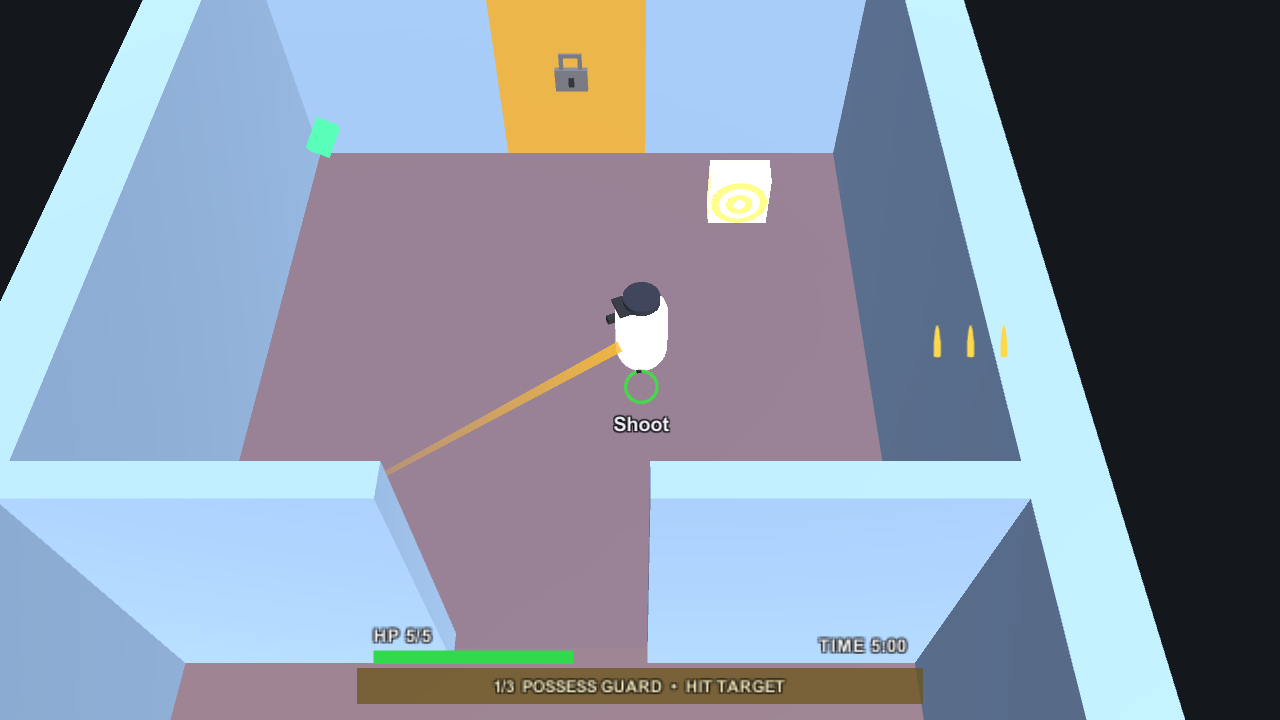
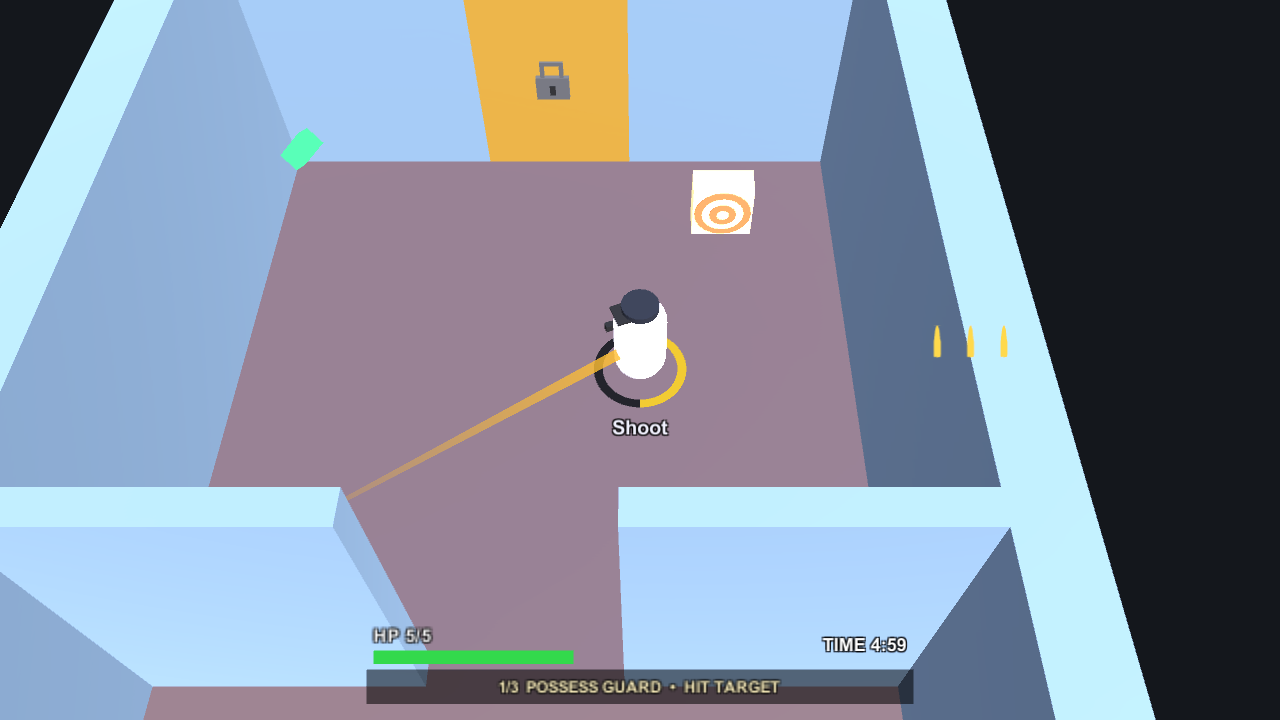
fix: anchor possession countdown to the ground around the host
Match the supplied reference with a flat world-space ring around the possessed feet. Preserve countdown progress and tutorial references, bind the gameplay camera for spotlights, and position the ring on the supporting floor. Update placement checks and native previews.

Changed region(s): [[0.0, 0.0, 0.9375, 1.0]]

diff --git a/Assets/Scripts/UI/PossessionCues.cs b/Assets/Scripts/UI/PossessionCues.cs
@@ -1,5 +1,6 @@
 using UnityEngine;
 using UnityEngine.UI;
+using UnityEngine.SceneManagement;
 
 namespace Possession
 {
@@ -15,7 +16,6 @@ namespace Possession
 
         [Header("Timer below the body")]
         [SerializeField] private RectTransform timerGroup; // HUDManager drives the circular countdown
-        [SerializeField] private float timerDrop = 40f;
 
         [Header("Ability hint")]
         [SerializeField] private Text hintText;
@@ -41,6 +41,8 @@ namespace Possession
         private GameObject hiddenLabel;
         private CanvasGroup timerVisibility;
         private Material aimMaterial;
+        private Canvas groundCanvas;
+        private readonly Vector3[] timerCorners = new Vector3[4];
 
         private void Awake()
         {
@@ -50,6 +52,19 @@ namespace Possession
             {
                 timerVisibility = timerGroup.GetComponent<CanvasGroup>();
                 if (timerVisibility == null) timerVisibility = timerGroup.gameObject.AddComponent<CanvasGroup>();
+                var ground = new GameObject("Possession Ground Ring", typeof(RectTransform), typeof(Canvas));
+                SceneManager.MoveGameObjectToScene(ground, gameObject.scene);
+                ground.layer = 2;
+                groundCanvas = ground.GetComponent<Canvas>();
+                groundCanvas.renderMode = RenderMode.WorldSpace;
+                groundCanvas.worldCamera = Camera.main;
+                groundCanvas.GetComponent<RectTransform>().sizeDelta = new Vector2(52f, 52f);
+                ground.transform.rotation = Quaternion.Euler(90f, 0f, 0f);
+                ground.transform.localScale = Vector3.one * 0.035f;
+                timerGroup.SetParent(ground.transform, false);
+                timerGroup.anchorMin = timerGroup.anchorMax = new Vector2(0.5f, 0.5f);
+                timerGroup.anchoredPosition3D = Vector3.zero;
+                timerGroup.localRotation = Quaternion.identity;
             }
         }
 
@@ -83,6 +98,7 @@ namespace Possession
         {
             if (aimLine != null) Destroy(aimLine.gameObject);
             if (aimMaterial != null) Destroy(aimMaterial);
+            if (groundCanvas != null) Destroy(groundCanvas.gameObject);
         }
 
         private void Start()
@@ -162,6 +178,7 @@ namespace Possession
             }
             if (cam == null) cam = Camera.main;
             if (cam == null) return;
+            if (groundCanvas != null) groundCanvas.worldCamera = cam;
 
             Vector3 feet = possessed.transform.position;
             if (bodyRenderer != null) feet.y = bodyRenderer.bounds.min.y;
@@ -170,17 +187,31 @@ namespace Possession
                 && viewport.y >= 0f && viewport.y <= 1f;
             if (timerVisibility != null) timerVisibility.alpha = visible ? 1f : 0f;
 
-            // Keep the circle upright and equally readable for Guard and Heavy.
-            if (timerGroup != null)
-                PlaceAt(timerGroup, feet, -timerDrop);
+            // The countdown lies on the floor around the host's feet, like the reference.
+            if (groundCanvas != null)
+            {
+                float floor = float.NegativeInfinity;
+                foreach (var hit in Physics.RaycastAll(feet + Vector3.up * 0.5f, Vector3.down, 3f,
+                    1 << 0, QueryTriggerInteraction.Ignore))
+                    if (hit.normal.y > 0.5f && hit.point.y <= feet.y + 0.1f)
+                    floor = Mathf.Max(floor, hit.point.y);
+                if (float.IsNegativeInfinity(floor)) floor = feet.y;
+                groundCanvas.transform.position = new Vector3(feet.x, floor + 0.04f, feet.z);
+            }
 
             if (hintText != null && hintText.gameObject.activeSelf)
             {
                 hintTimer -= Time.unscaledDeltaTime;
                 float drop = hintDrop;
                 if (timerGroup != null)
-                    drop = Mathf.Max(drop, timerDrop + timerGroup.rect.height * Mathf.Abs(timerGroup.localScale.y) * 0.5f
-                        + hintText.rectTransform.rect.height * Mathf.Abs(hintText.rectTransform.localScale.y) * 0.5f + 8f);
+                {
+                    timerGroup.GetWorldCorners(timerCorners);
+                    float bottom = float.PositiveInfinity;
+                    foreach (var corner in timerCorners) bottom = Mathf.Min(bottom, cam.WorldToScreenPoint(corner).y);
+                    float scale = canvas != null ? canvas.scaleFactor : 1f;
+                    drop = Mathf.Max(drop, (cam.WorldToScreenPoint(feet).y - bottom) / scale
+                        + hintText.rectTransform.rect.height * 0.5f + 8f);
+                }
                 PlaceAt(hintText.rectTransform, feet, -drop);
                 var c = hintText.color;
                 c.a = visible ? Mathf.Clamp01(hintTimer / hintFadeTime) : 0f;

diff --git a/Assets/Tests/PlayMode/PossessionTimerTests.cs b/Assets/Tests/PlayMode/PossessionTimerTests.cs
@@ -206,7 +206,7 @@ namespace Possession.Tests
         [UnityTest]
         public IEnumerator CameraCanvasAlsoKeepsCircleBelowVisibleBody()
         {
-            Canvas canvas = group.GetComponentInParent<Canvas>();
+            Canvas canvas = hud.GetComponent<Canvas>();
             canvas.renderMode = RenderMode.ScreenSpaceCamera;
             canvas.worldCamera = Camera.main;
             canvas.planeDistance = 1f;
@@ -328,7 +328,10 @@ namespace Possession.Tests
                 hint.rectTransform.GetWorldCorners(corners);
                 Vector3[] circle = new Vector3[4];
                 group.GetWorldCorners(circle);
-                Assert.That(corners[1].y, Is.LessThan(circle[0].y), "The tutorial zoom must preserve the gap.");
+                Camera uiCamera = hint.canvas.renderMode == RenderMode.ScreenSpaceOverlay ? null : hint.canvas.worldCamera;
+                float hintTop = RectTransformUtility.WorldToScreenPoint(uiCamera, corners[1]).y;
+                float ringBottom = circle.Min(p => Camera.main.WorldToScreenPoint(p).y);
+                Assert.That(hintTop, Is.LessThan(ringBottom), "The tutorial zoom must preserve the gap.");
             }
         }
 
@@ -382,17 +385,16 @@ namespace Possession.Tests
 
         private void AssertBelowFeet()
         {
-            Vector3 feet = enemy.transform.position;
-            feet.y = enemy.GetComponent<Renderer>().bounds.min.y;
-            Vector3 screen = Camera.main.WorldToScreenPoint(feet);
-            Canvas canvas = group.GetComponentInParent<Canvas>();
-            Camera uiCamera = canvas.renderMode == RenderMode.ScreenSpaceOverlay ? null : canvas.worldCamera;
-            Vector2 center = RectTransformUtility.WorldToScreenPoint(uiCamera, group.position);
-            Vector3[] corners = new Vector3[4];
+            Assert.That(group.GetComponentInParent<Canvas>().renderMode, Is.EqualTo(RenderMode.WorldSpace));
+            Assert.That(group.GetComponentInParent<Canvas>().worldCamera, Is.SameAs(Camera.main));
+            Assert.That(group.position.x, Is.EqualTo(enemy.transform.position.x).Within(0.01f));
+            Assert.That(group.position.z, Is.EqualTo(enemy.transform.position.z).Within(0.01f));
+            Assert.That(Mathf.Abs(Vector3.Dot(group.forward, Vector3.up)), Is.GreaterThan(0.999f));
+            var corners = new Vector3[4];
             group.GetWorldCorners(corners);
-            float top = RectTransformUtility.WorldToScreenPoint(uiCamera, corners[1]).y;
-            Assert.That(center.x, Is.EqualTo(screen.x).Within(1f));
-            Assert.That(top, Is.LessThan(screen.y));
+            Assert.That(corners.Max(p => p.y) - corners.Min(p => p.y), Is.LessThan(0.001f));
+            Assert.That(group.position.y, Is.InRange(-0.05f, 0.3f));
+            Assert.That(Vector3.Distance(corners[0], corners[3]), Is.InRange(1.7f, 2.5f));
         }
 
         private int MeshVertices()

diff --git a/Docs/How-To-Play-Tutorial.md b/Docs/How-To-Play-Tutorial.md
@@ -25,7 +25,7 @@ The practice level is a separate copy of Level_01 with the shared Spirit, Guard,
 8. Go through the unlocked door. The **Wall Breaker** (the shared Heavy enemy) gets its own nearby **E** prompt, possession spotlight, and wall **LMB** highlight. Press **LET'S SMASH**, move close, face the brick wall with WASD, and left-click. Its prompts take priority when you control it, even if optional Guard or movement lessons remain incomplete.
 9. Eject back into Spirit form and enter the green exit before the level clock expires. Once the door is open and the wall is broken, entering as the Spirit finishes practice. Optional movement/ejection lesson flags never block an otherwise valid exit.
 
-The **HOW TO PLAY** badge shows the current controlled form and completed-skill count. The regular compact HUD continues to display health, level time, a text-free circular possession countdown below the possessed body, and typed ammo icons near the cursor. Shared possession visuals and the Guard aim line are included. Spotlight zooms restore each widget's exact original scale when dismissed. Pop effects use unscaled time so they continue animating while gameplay is paused. Damage briefly flashes the actual HP area red.
+The **HOW TO PLAY** badge shows the current controlled form and completed-skill count. The regular compact HUD continues to display health, level time, a text-free circular possession countdown on the ground around the possessed body’s feet, and typed ammo icons near the cursor. Shared possession visuals and the Guard aim line are included. Spotlight zooms restore each widget's exact original scale when dismissed. Pop effects use unscaled time so they continue animating while gameplay is paused. Damage briefly flashes the actual HP area red.
 
 Redundant old controls/objective text and the regular end panels are hidden in this tutorial scene only; the tutorial provides its own lesson and completion cards. The effects use UI graphics and leave enemy colliders, movement, abilities, and shared HUD scripts unchanged.
 

diff --git a/Docs/QA/README.md b/Docs/QA/README.md
@@ -1,6 +1,6 @@
 # C3 possession and beta HUD validation
 
-Verified November 8, 2026, using Unity **6000.3.22f1**.
+Verified November 9, 2026, using Unity **6000.3.22f1**.
 
 This branch combines the circular countdown from PR #65 (`bb55e2a`) with the latest beta HUD, ammo and camera changes from PR #68 (`46d5967`).
 
@@ -13,7 +13,7 @@ This branch combines the circular countdown from PR #65 (`bb55e2a`) with the lat
 
 ## Behavior covered
 
-The ring stays below the white possessed body, retains equipment colours, and changes from green through amber to red without flashing. Its hint keeps a gap during tutorial zoom. Pause/re-enable, missed level-end events, offscreen hosts, material restoration and aim-line disposal have regression coverage.
+The ring lies flat on the floor around the white possessed body’s feet, retains equipment colours, and changes from green through amber to red without flashing. Its hint keeps a gap during tutorial zoom. Pause/re-enable, missed level-end events, offscreen hosts, material restoration and aim-line disposal have regression coverage.
 
 Every saved level and Tutorial now uses the beta bullet/hammer sprites and camera offset. Ammo stays inside all screen edges on overlay and camera canvases. Level 3 uses the intended Heavy_03 spawn at z=7.
 
@@ -25,7 +25,7 @@ Open the project in Unity 6000.3.22f1, then use **Window → General → Test Ru
 
 ## Native previews
 
-Guard with the circular timer, typed ammunition and bottom-centre status row:
+Guard with the ground-level circular timer, typed ammunition and bottom-centre status row:
 
 ![Guard possession](c3-guard.png)
 
